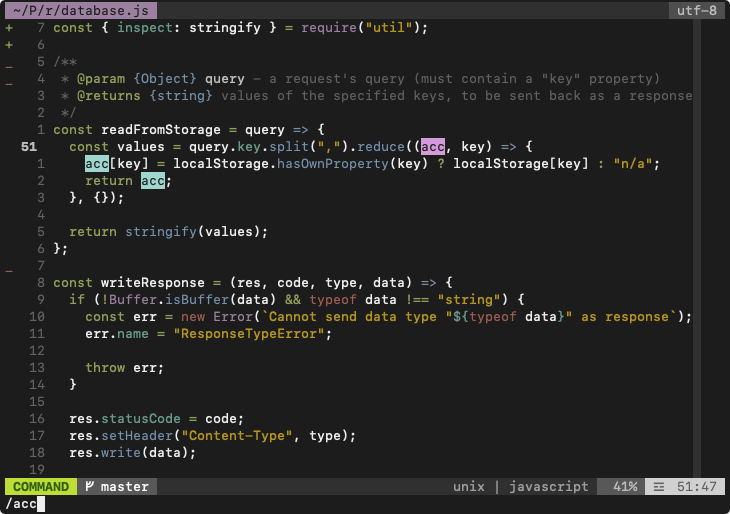
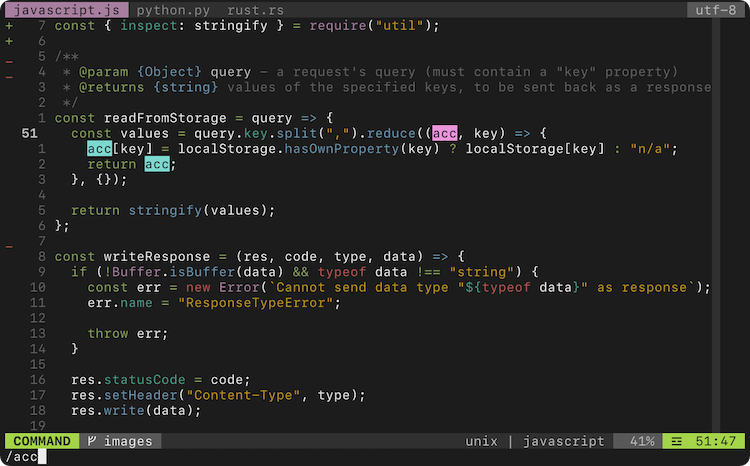
Update screenshots and add instructions for future
The screenshots have been updated with the new lightline theme, and the
README.md contains instructions for reproducing the same viewport window
for future updates to the screenshots.

diff --git a/README.md b/README.md
@@ -1,0 +1,10 @@
+# smyth screenshots
+
+This branch exists to separate the screenshots in the main branch's README from any clones of this repo by plugin manaagers.
+
+## notes
+
+* The iTerm viewport window size is 90x30 for the screenshots.
+* Some of the example code has been edited to demonstrate the git gutter colors and specific syntax colors for lines of code. To reproduce the same lines of code in the viewport, apply the `sample-code/screenshot-viewport.diff` and match the lines displayed in the existing screenshots.
+* Use macOS's Command+Shift+5 -> "Capture Selected Window" and click on the iTerm window while holding Option to remove box shadow from the resulting screenshot.
+* macOS's screenshots can output a high resolution and image size. Make sure to resive the images to 750x466px at 200ppi resolution.
